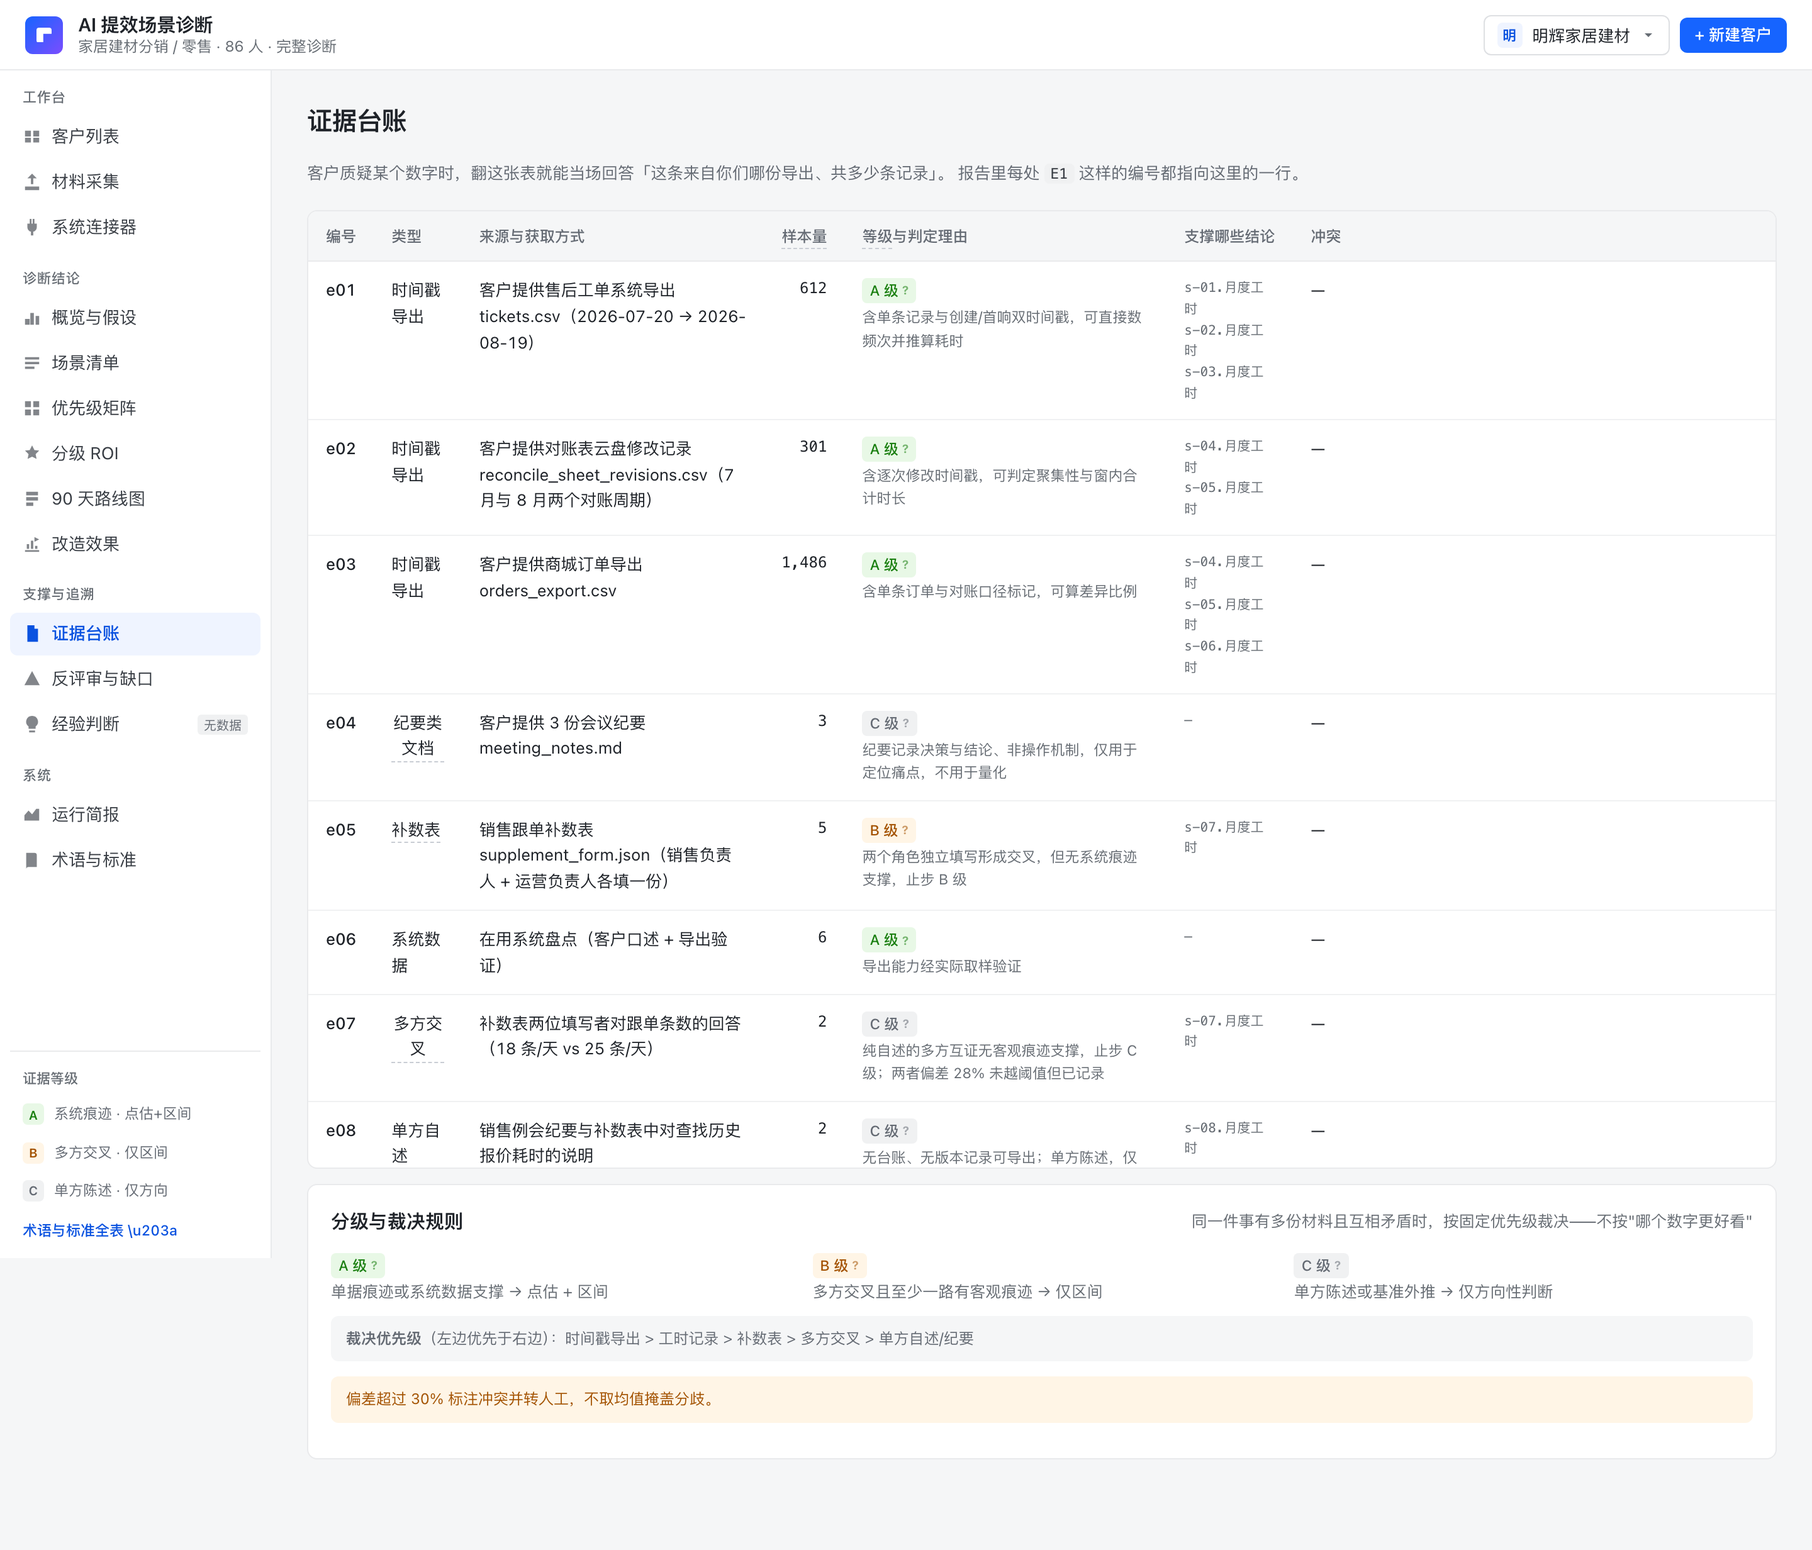
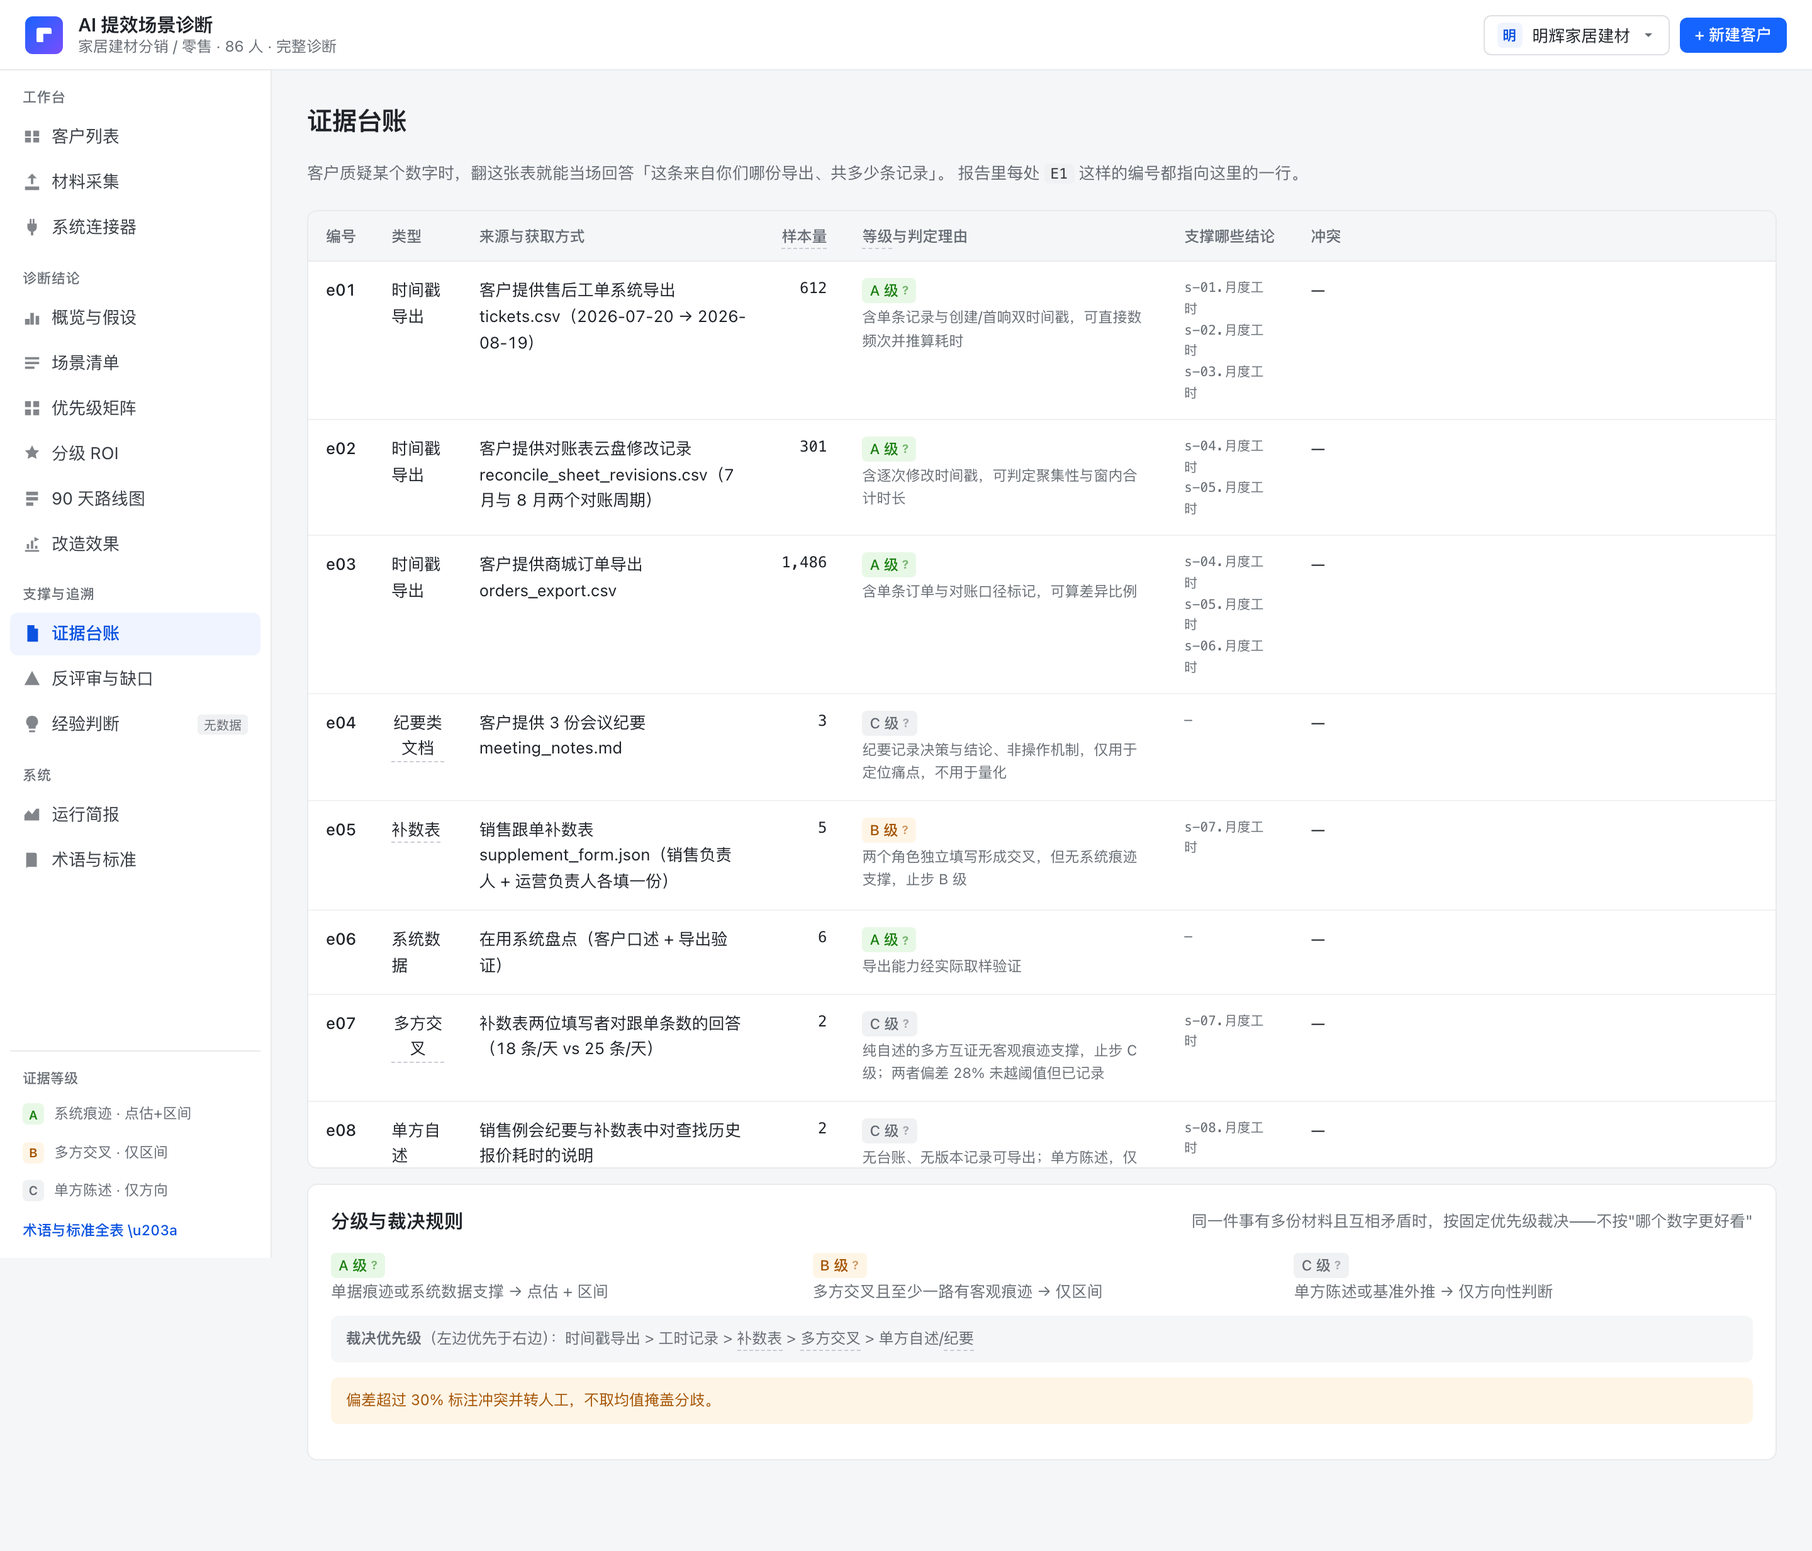
feat(web): 服务端成文段落里的术语也接上解释入口
此前只包了界面标签。但「关键假设」「裁决优先级」「反评审隔离说明」这些是
服务端下发的整段中文，前端拿到的是字符串——里面的「折现」「真碎片」「补数表」
全是纯文本、点不开。而这些段落恰恰是术语密度最高、最需要查词的地方：
概览页一条假设里就有 9 个术语。

新增 autoTerm()，接入 16 处成文段落（关键假设、受理探测说明、标灰原因、
矩阵轴说明与分界依据、行业基准使用规则、裁决优先级、冲突处理规则、
反评审隔离说明与已知局限、缺口规则、效果记录规则）。三条纪律：

- 先转义再注入。这些段落含客户名与文件名，都是外部输入，
  顺序颠倒等于把客户材料当 HTML 执行——安全属性，不只是样式问题
- 长词优先。「连续作业」必须在「作业形态」之前匹配，否则长词被短词切碎
- 每段只标第一次。同一段同个词标三遍是噪音，反而更难读

术语表拉不到时退回纯文本，报告照样能读。

刻意没接的两处：难度标准浮层内部的说明（浮层里嵌可点术语会套出
button-in-button，键盘与读屏行为会乱）、证据分级规则 A/B/C 三行
（那本身就是「证据等级」的定义文字，旁边已有可点徽标，再标是重复噪音）。

验证：536 个 pytest 全绿、黄金集 12/12；
autoTerm 专项浏览器实测 9/9 —— 其中安全一项用真实注入载荷走完整路径
（拦截 /overview 把 <img onerror> 与 <script> 塞进 assumptions，
确认未被执行、以纯文本原样呈现、且夹带的「折现」仍被识别为术语）；
其余九套浏览器用例 8 + 29 + 15 + 17 + 12 + 8 + 1 + 9 + 14 + 11 项回归全通过。

红-绿验证抓到一条装饰品测试：转义顺序那条原本断言「esc(text) 的位置早于
replace() 的位置」，把 `const safe = esc(text)` 改坏后函数里别处仍有
esc(text)，位置检查照样通过。已改为直接断言被替换的值就是转义结果，
三种破坏方式（safe 绑原始 text / replace 作用于 text / 整体去掉转义）现在都会红。

另修两处测试自身问题（非产品缺陷）：
- scales 用例等的是 .card，概览页也有 3 个，于是对着上一页残留就返回了，
  测出严重度徽标数为 0；改等只有反评审页才有的元素
- autoterm 用例用 count() 判断首访提示条，但它关掉后仍在 DOM 里（只是 hidden），
  count() 照样为 1 导致 click() 超时；改用 isVisible()

diff --git a/web/app.js b/web/app.js
@@ -116,6 +116,42 @@ function term(key, display) {
   return `<button class="term" data-term="${esc(key)}" aria-label="查看「${esc(t.label)}」的解释">${esc(label)}</button>`;
 }
 
+/* 服务端下发的成文段落里也带术语（关键假设、裁决规则、受理说明等），
+ * 那些字符串不经过 term() 包装，用户看到的是纯文本、点不开。
+ * autoTerm() 负责把它们自动接上解释入口。
+ *
+ * 三条纪律：
+ * 1. 先转义再注入。顺序颠倒就等于把用户材料里的内容当 HTML 执行了。
+ * 2. 长词优先。"连续作业"必须在"作业形态"之前匹配，否则会被切碎。
+ * 3. 每段只标第一次出现。同一段里同个词标三遍是噪音，反而更难读。
+ */
+let autoTermRe = null;
+
+function buildAutoTermRe() {
+  const keys = [...glossary.terms.keys()]
+    // 长度 1 的词误伤概率过高（会嵌在别的词里），排除掉。
+    // 两字词如"缺口""折现"恰恰是核心概念，保留，靠"长词优先 + 每段一次"控噪。
+    .filter((k) => k.length >= 2)
+    .sort((a, b) => b.length - a.length)
+    .map((k) => k.replace(/[.*+?^${}()|[\]\\]/g, "\\$&"));
+  autoTermRe = keys.length ? new RegExp("(" + keys.join("|") + ")", "g") : null;
+}
+
+/** 转义纯文本，并把其中的术语替换成可点开的解释入口。 */
+function autoTerm(text) {
+  const safe = esc(text);
+  if (!glossary.loaded) return safe;
+  if (!autoTermRe) buildAutoTermRe();
+  if (!autoTermRe) return safe;
+
+  const used = new Set();
+  return safe.replace(autoTermRe, (m) => {
+    if (used.has(m)) return m;      // 每段只标第一次
+    used.add(m);
+    return term(m, m);
+  });
+}
+
 /** 等级徽标 + 可点开判定标准。徽标本身就是解释入口，不用另找地方。 */
 function gradeBadge(g, { scale = false, suffix = "" } = {}) {
   const grade = String(g || "C").toUpperCase();
@@ -410,7 +446,7 @@ async function viewOverview() {
 
     <div class="sec">
       <div class="sec-h"><h3>关键假设</h3><p>假设透明比数字精确更重要，任一项变化都会改变结论</p></div>
-      <div class="card"><ol class="assume">${d.assumptions.map((a) => `<li>${esc(a)}</li>`).join("")}</ol></div>
+      <div class="card"><ol class="assume">${d.assumptions.map((a) => `<li>${autoTerm(a)}</li>`).join("")}</ol></div>
     </div>
 
     <div class="sec">
@@ -422,7 +458,7 @@ async function viewOverview() {
           <div class="field"><dt>覆盖部门</dt><dd>${d.scope.departments.map(esc).join("、")}</dd></div>
           <div class="field"><dt>明确排除</dt><dd class="dim">${(d.scope.excluded || []).map(esc).join("、") || "无"}</dd></div>
         </div>
-        <p class="hint hint-info">${esc(d.admission_probe.explanation)}</p>
+        <p class="hint hint-info">${autoTerm(d.admission_probe.explanation)}</p>
       </div>
     </div>`;
 }
@@ -484,7 +520,7 @@ async function viewScenarios() {
         </div>
         ${p.children.map(item).join("")}
       </div>`).join("")}
-    <p class="note">${esc(d.render_gate.grey_reason)}</p>`;
+    <p class="note">${autoTerm(d.render_gate.grey_reason)}</p>`;
 }
 
 /* ============================ 03 优先级矩阵（真散点） ============================ */
@@ -557,12 +593,12 @@ async function viewMatrix() {
     <div class="sec" style="margin-top:16px">
       <div class="card">
         <div class="fields">
-          <div class="field"><dt>收益轴</dt><dd class="dim">${esc(d.axes.benefit)}</dd></div>
-          <div class="field"><dt>难度轴（${term("七维")}）</dt><dd class="dim">${esc(d.axes.difficulty)}</dd></div>
-          <div class="field"><dt>收益分界</dt><dd>${money(t.benefit)}<span class="dim"> · ${esc(t.benefit_basis)}</span></dd></div>
+          <div class="field"><dt>收益轴</dt><dd class="dim">${autoTerm(d.axes.benefit)}</dd></div>
+          <div class="field"><dt>难度轴（${term("七维")}）</dt><dd class="dim">${autoTerm(d.axes.difficulty)}</dd></div>
+          <div class="field"><dt>收益分界</dt><dd>${money(t.benefit)}<span class="dim"> · ${autoTerm(t.benefit_basis)}</span></dd></div>
           <div class="field"><dt>难度分界</dt><dd>${difficultyValue(t.difficulty)}<span class="dim"> · 高于此值算"难"</span></dd></div>
         </div>
-        <p class="hint hint-info">${esc(d.note)}</p>
+        <p class="hint hint-info">${autoTerm(d.note)}</p>
       </div>
     </div>`;
 }
@@ -641,7 +677,7 @@ async function viewRoi() {
     </div>
 
     <div class="sec">
-      <div class="sec-h"><h3>行业基准</h3><p>${esc(d.benchmarks.usage_rule)}</p></div>
+      <div class="sec-h"><h3>行业基准</h3><p>${autoTerm(d.benchmarks.usage_rule)}</p></div>
       <div class="card">
         ${[...d.benchmarks.service, ...d.benchmarks.reconcile].map((b) => `
           <p style="margin:0 0 10px;font-size:13px">${esc(b.text)}
@@ -734,8 +770,8 @@ async function viewEvidence() {
         <div class="field"><dt>${gradeBadge("B", { scale: true })}</dt><dd class="dim">${esc(d.grading_rule.B)}</dd></div>
         <div class="field"><dt>${gradeBadge("C", { scale: true })}</dt><dd class="dim">${esc(d.grading_rule.C)}</dd></div>
       </div>
-      <p class="hint"><b>裁决优先级</b>（左边优先于右边）：${esc(d.adjudication_order)}</p>
-      <p class="hint hint-warn">${esc(d.conflict_rule)}</p>
+      <p class="hint"><b>裁决优先级</b>（左边优先于右边）：${autoTerm(d.adjudication_order)}</p>
+      <p class="hint hint-warn">${autoTerm(d.conflict_rule)}</p>
     </div>`;
 }
 
@@ -754,7 +790,7 @@ async function viewReview() {
         <h3>针对 Top 场景的最强反驳</h3>
         <span class="bdg bdg-info">${esc(r.generated_by || "定稿内容")}</span>
       </div>
-      <p class="note" style="margin:0 0 10px">${esc(r.isolation)}</p>
+      <p class="note" style="margin:0 0 10px">${autoTerm(r.isolation)}</p>
       ${r.items.map((i) => `
         <div class="card">
           <div class="item-h">
@@ -766,7 +802,7 @@ async function viewReview() {
           <p style="margin:0 0 10px;font-size:13.5px;line-height:1.7">${esc(i.rebuttal)}</p>
           <p class="hint">处理：${esc(i.resolution)}</p>
         </div>`).join("")}
-      <p class="note">${esc(r.known_limit)}</p>
+      <p class="note">${autoTerm(r.known_limit)}</p>
     </div>
 
     <div class="sec">
@@ -790,7 +826,7 @@ async function viewReview() {
             ${i.affected_cards.map((c) => `<button class="chip-ref" data-card="${esc(c)}">${esc(c)}</button>`).join("")}
           </div>
         </div>`).join("")}
-      <p class="note">${esc(g.rule)}</p>
+      <p class="note">${autoTerm(g.rule)}</p>
     </div>`;
 }
 
@@ -1629,7 +1665,7 @@ async function viewEffect() {
       </div>` : ""}
 
     <div class="sec">
-      <div class="sec-h"><h3>记录数据</h3><p>${esc(d.rule)}</p></div>
+      <div class="sec-h"><h3>记录数据</h3><p>${autoTerm(d.rule)}</p></div>
       <div class="card">
         <form class="form" id="metricForm">
           <div class="form-row">

diff --git a/tests/test_web_glossary_contract.py b/tests/test_web_glossary_contract.py
@@ -407,3 +407,86 @@ def test_stale_response_does_not_overwrite_current_view():
         f"render() 只有 {guards} 处新旧视图校验；成功与失败两条路径都要有，"
         "否则慢请求或慢失败都会覆盖当前页面"
     )
+
+
+# ---------------------------------------------------------------------------
+# 服务端成文段落的术语自动接入
+# ---------------------------------------------------------------------------
+def test_autoterm_escapes_before_injecting():
+    """先转义再注入。顺序颠倒就等于把客户材料里的内容当 HTML 执行。
+
+    这是安全属性，不只是样式问题：关键假设、裁决规则这些段落里含客户名与
+    文件名，都是外部输入。必须先 esc() 得到纯文本，再往里插术语按钮。
+    """
+    m = re.search(r"function autoTerm\(text\)\s*\{.*?\n\}", APP_JS, re.S)
+    assert m, "找不到 autoTerm()"
+    body = m.group(0)
+
+    # 起初这条断言写成"esc(text) 的位置早于 .replace() 的位置"，是个装饰品：
+    # 把 `const safe = text` 改坏之后，函数里别处仍有 esc(text)，位置检查照样通过。
+    # 真正要钉住的是**被替换的那个值本身是转义结果**，所以直接断言这两处绑定。
+    assert re.search(r"const safe = esc\(text\);", body), (
+        "被替换的值必须是 esc(text) 的结果；绑定成原始 text 就等于把标签当 HTML 执行"
+    )
+    assert re.search(r"return safe\.replace\(autoTermRe", body), (
+        "替换必须作用在已转义的 safe 上，不能作用在原始文本上"
+    )
+
+
+def test_autoterm_prefers_longer_terms():
+    """「连续作业」必须先于「作业形态」匹配，否则长词会被短词切碎。"""
+    m = re.search(r"function buildAutoTermRe\(\)\s*\{.*?\n\}", APP_JS, re.S)
+    assert m, "找不到 buildAutoTermRe()"
+    body = m.group(0)
+    assert re.search(r"sort\(\(a, b\) => b\.length - a\.length\)", body), (
+        "术语必须按长度降序排列，否则短词会先命中、把长词切碎"
+    )
+    # 单字词误伤概率过高
+    assert "length >= 2" in body, "应排除长度 1 的词，避免嵌在别的词里误标"
+
+
+def test_autoterm_marks_each_term_once_per_paragraph():
+    """同一段里同个词标三遍是噪音，反而更难读。"""
+    m = re.search(r"function autoTerm\(text\)\s*\{.*?\n\}", APP_JS, re.S)
+    body = m.group(0)
+    assert "used" in body and "Set" in body, "需要用集合记录已标过的词"
+
+
+def test_autoterm_degrades_when_glossary_missing():
+    """术语表拉不到时必须退回纯文本，不能连报告一起挂掉。"""
+    m = re.search(r"function autoTerm\(text\)\s*\{.*?\n\}", APP_JS, re.S)
+    body = m.group(0)
+    assert "glossary.loaded" in body, "必须检查术语表是否可用"
+    assert re.search(r"if \(!glossary\.loaded\) return safe", body), (
+        "术语表不可用时应直接返回已转义的纯文本"
+    )
+
+
+def test_server_prose_is_wired_to_autoterm():
+    """服务端下发的成文段落必须走 autoTerm，否则里面的术语点不开。
+
+    这些字段是"整段中文"，不是标签或数值，用户最需要在这里查词。
+    """
+    # 关键假设是逐条 map 出来的，写法是 `autoTerm(a)` 而不是 `autoTerm(d.assumptions…)`，
+    # 所以单独按渲染片段匹配，不能跟其他字段套同一个模式。
+    # 注意 `${` 里的 `$` 在正则中是行尾锚点，必须转义成 `\$\{`，
+    # 否则这条断言永远匹配不上（写错过一次）。
+    assert re.search(r"d\.assumptions\.map\(\(a\) => `<li>\$\{autoTerm\(a\)\}", APP_JS), (
+        "关键假设未接入 autoTerm，其中的折现/真碎片/补数表等术语点不开"
+    )
+
+    for field in (
+        "d.admission_probe.explanation",     # 受理探测说明
+        "d.render_gate.grey_reason",         # 标灰原因
+        "d.adjudication_order",              # 裁决优先级
+        "d.conflict_rule",                   # 冲突处理规则
+        "r.isolation",                       # 反评审隔离说明
+        "r.known_limit",                     # 已知局限
+        "g.rule",                            # 缺口规则
+    ):
+        pat = re.compile(r"autoTerm\(" + re.escape(field))
+        assert pat.search(APP_JS), f"{field} 未接入 autoTerm，其中的术语点不开"
+
+    # 反过来：这些字段不该还留着裸 esc()
+    for field in ("d.adjudication_order", "d.conflict_rule", "r.known_limit"):
+        assert f"esc({field})" not in APP_JS, f"{field} 仍是裸 esc()，术语无法点开"

diff --git a/README.md b/README.md
@@ -207,7 +207,20 @@ IM 刻意声明为 C 级：**把它标成 A 级会让下游误以为能量化，
 | `严重度 高` 徽标 | 点开三档的判定标准**与该怎么办** |
 | ROI 表头的 `保守→中性` | 点开三档口径差在哪 |
 | 侧栏左下角等级图例 | 任一级都能点开判定标准 |
+| 服务端下发的成文段落 | 关键假设、裁决优先级、受理说明等整段中文，其中的术语自动接上解释入口 |
 | 「术语与标准」页 | 38 个术语按 8 个主题分组 + 六张标准表全文，支持搜索 |
+
+最后一条容易被漏掉：界面标签好办，逐个包一层就行；但「关键假设」「裁决优先级」
+「反评审隔离说明」这些是**服务端下发的整段中文**，前端拿到的是字符串，
+里面的「折现」「真碎片」「补数表」原本都是纯文本、点不开——而这些段落恰恰是
+术语密度最高、用户最需要查词的地方。`autoTerm()` 负责自动接上，三条纪律：
+
+- **先转义再注入**。这些段落含客户名与文件名，都是外部输入。顺序颠倒就等于
+  把客户材料当 HTML 执行——这是安全属性，测试里用真实注入载荷验证过
+- **长词优先**。「连续作业」必须在「作业形态」之前匹配，否则长词会被短词切碎
+- **每段只标第一次**。同一段里同个词标三遍是噪音，反而更难读
+
+术语表拉不到时退回纯文本，报告本身照样能读——查词是辅助，不该成为单点故障。
 
 六张标准表：
 
@@ -366,6 +379,8 @@ n400 文字落在那层底色上，可是没有任何机制拦住以后有人这
 - 换页加载态必须延迟出现（150–500ms），并标 `aria-busy`；
   `render()` 的成功与失败两条路径都要校验「当前视图是否还是我」，
   否则慢请求后到会覆盖用户已经切走的页面
+- `autoTerm()` 必须**先转义再注入**：被替换的值只能是 `esc(text)` 的结果。
+  这是安全属性——那些段落里含客户名与文件名，绑定成原始文本就等于把客户材料当 HTML 执行
 
 `evals/failure_replays/` 存放生产失败的最小复现用例，修好后转入黄金集回归。
 
